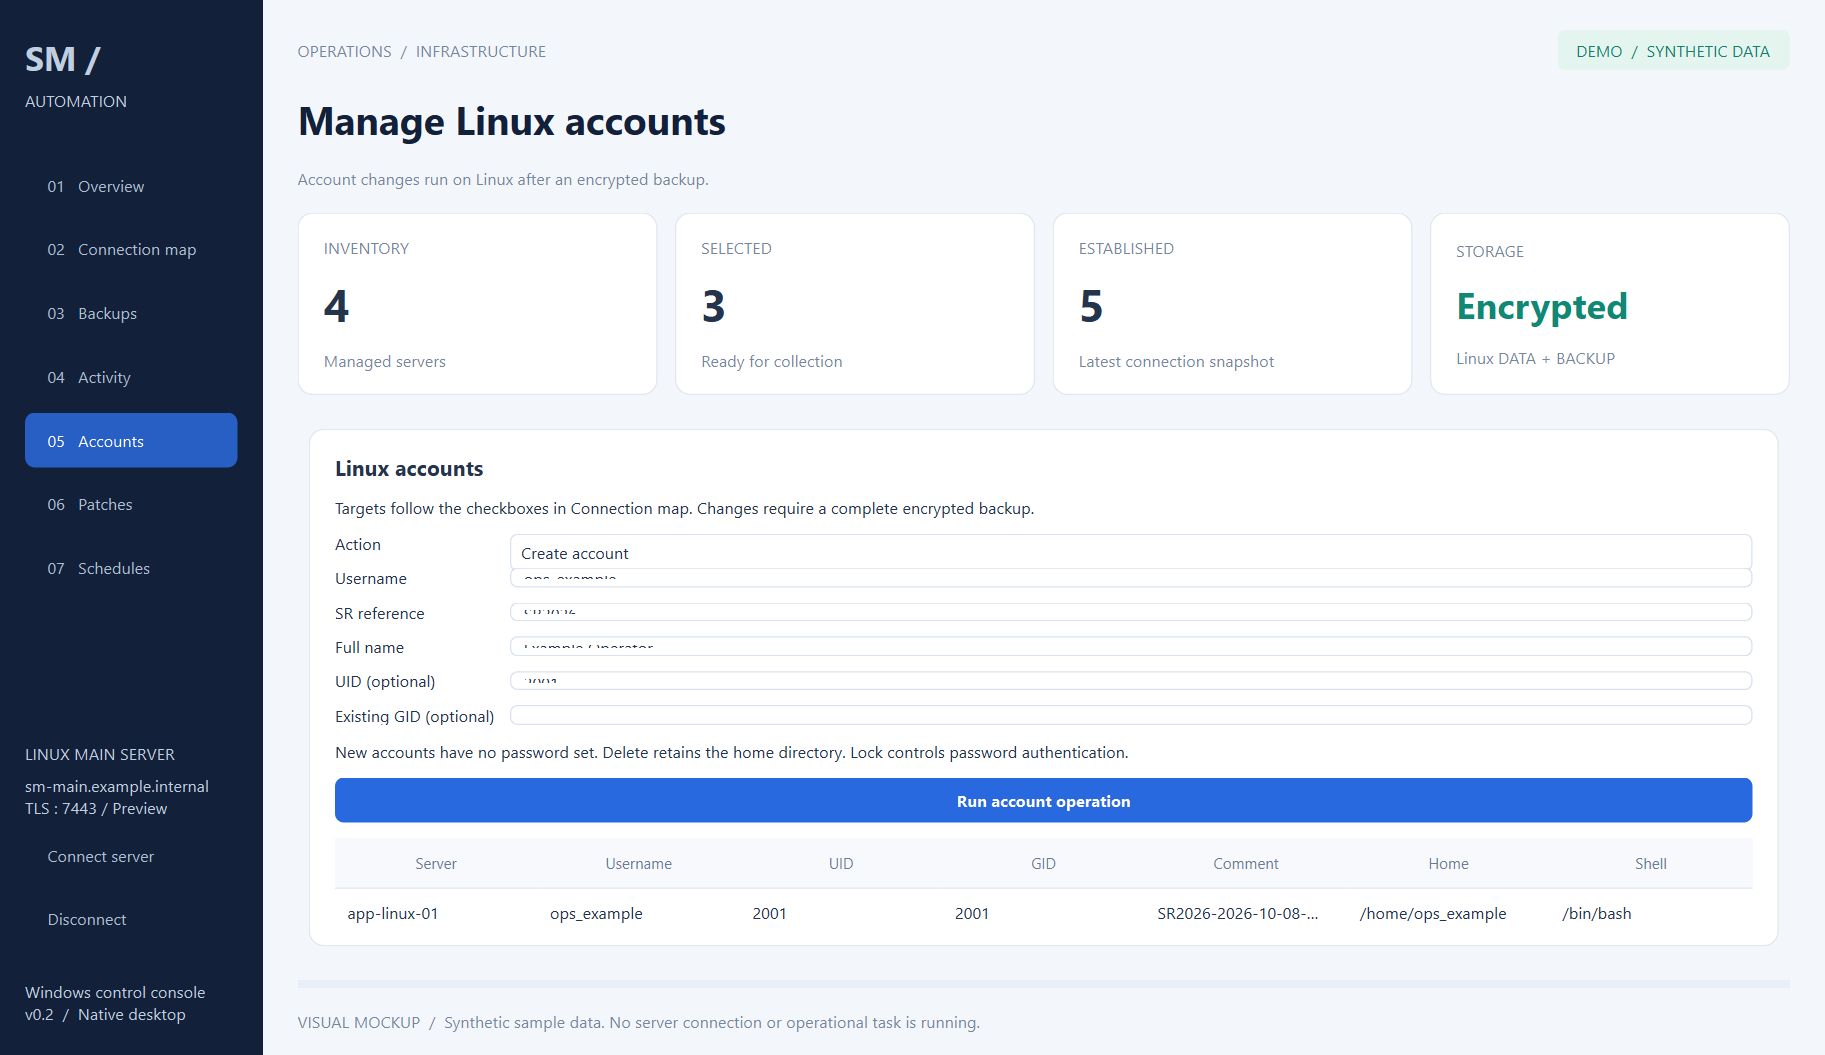
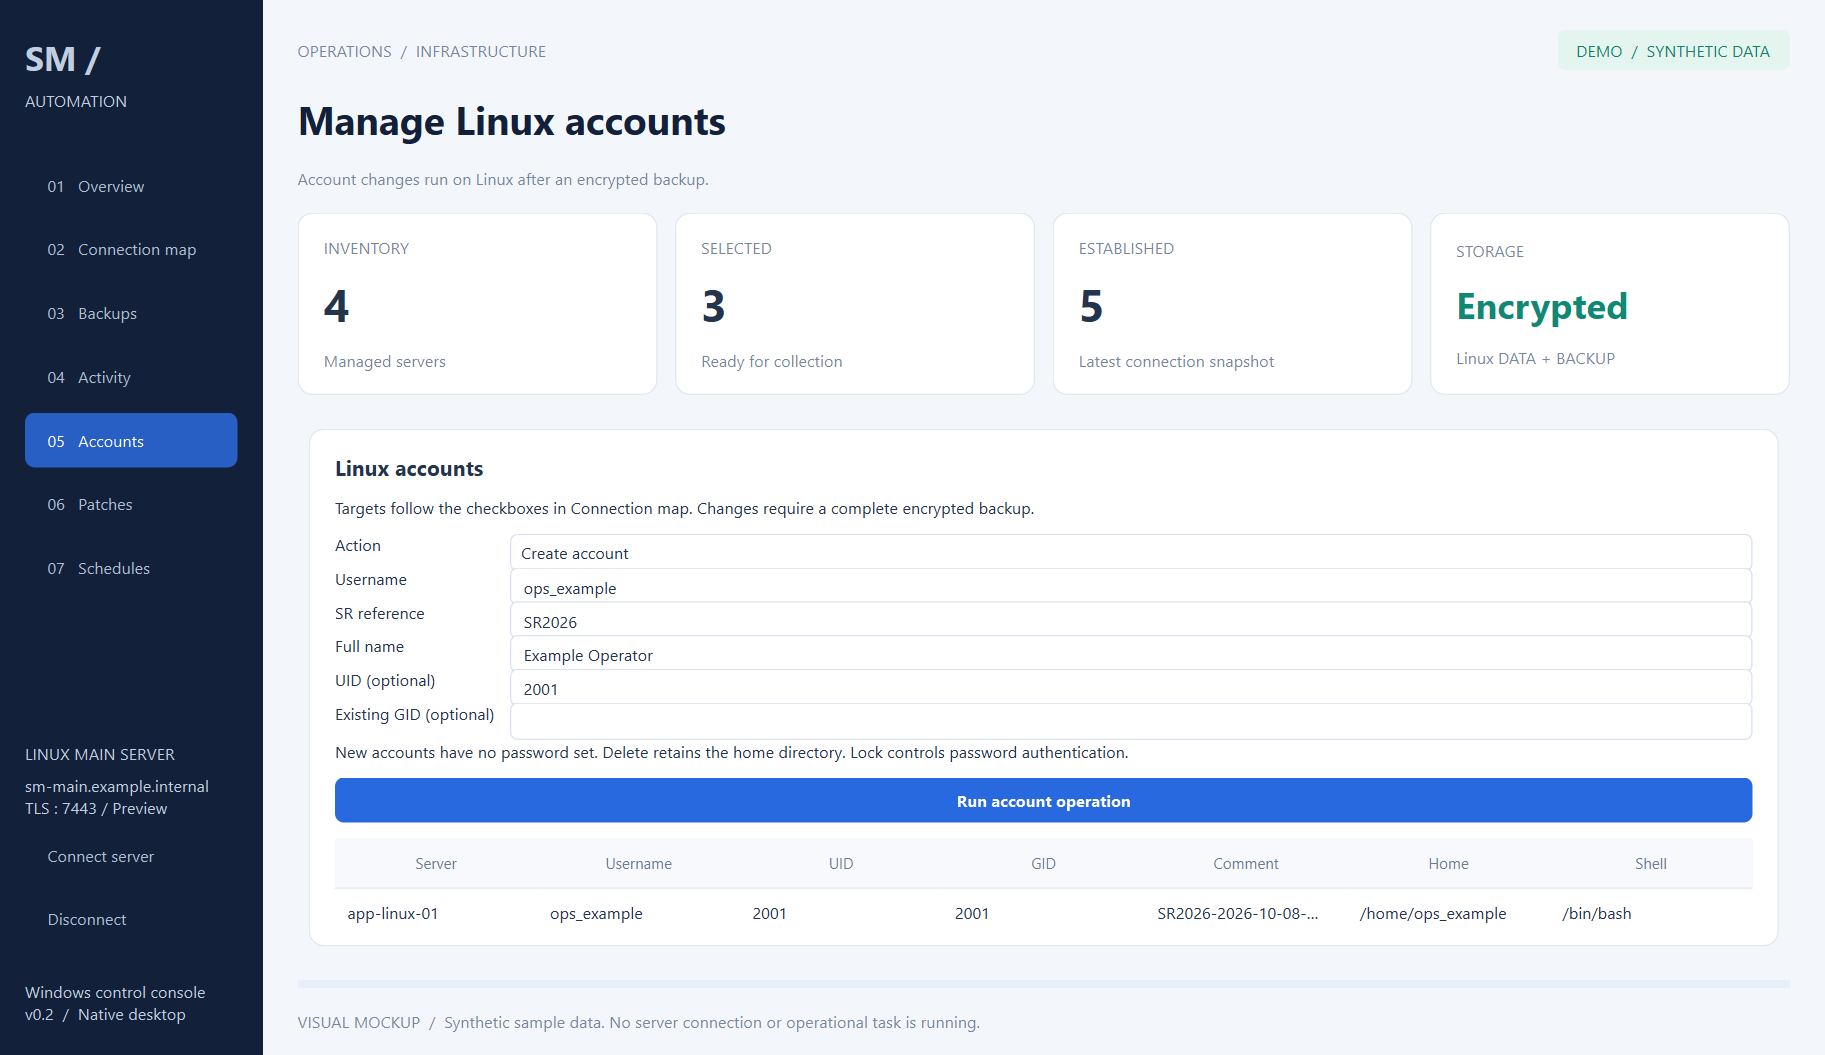
Keep account inputs readable at Windows display scaling

Changed region(s): [[0.2811, 0.546, 0.3748, 0.6673], [0.1874, 0.6066, 0.2811, 0.6976], [0.1874, 0.546, 0.2186, 0.5763]]

diff --git a/src/desktop/main.py b/src/desktop/main.py
@@ -43,7 +43,7 @@ QPushButton[primary="true"]:hover { background: #1c56bb; }
 QLineEdit, QSpinBox, QPlainTextEdit, QComboBox, QDateTimeEdit { border: 1px solid #d9e2ee; border-radius: 6px; background: white; padding: 8px; }
 QComboBox::drop-down { border: none; width: 26px; }
 QComboBox QAbstractItemView { background: white; selection-background-color: #e6efff; selection-color: #203955; }
-QSpinBox, QDateTimeEdit, QComboBox { padding: 3px 8px; min-height: 22px; }
+QSpinBox, QDateTimeEdit, QComboBox, QLineEdit { padding: 3px 8px; min-height: 22px; }
 QTableWidget { background: white; border: none; gridline-color: #edf1f6; selection-background-color: #e6efff; selection-color: #203955; }
 QHeaderView::section { background: #f7f9fc; color: #6a7c93; border: none; border-bottom: 1px solid #e1e8f0; padding: 9px; font-size: 9pt; }
 QTableWidget::item { padding: 7px; border-bottom: 1px solid #eff3f7; }
@@ -284,6 +284,7 @@ class Console(QMainWindow):
         frame, body = card(); body.addWidget(label("Linux accounts", "section"))
         body.addWidget(label("Targets follow the checkboxes in Connection map. Changes require a complete encrypted backup."))
         form = QFormLayout(); self.account_action = QComboBox()
+        form.setVerticalSpacing(10)
         for action, title in [("list", "List accounts"), ("create", "Create account"), ("modify", "Update SR and name"), ("groups", "Add supplementary groups"), ("remove_groups", "Remove supplementary groups"), ("primary_group", "Change primary group (one name)"), ("lock", "Lock password login"), ("unlock", "Unlock password login"), ("delete", "Delete account (retain home)")]:
             self.account_action.addItem(title, action)
         self.account_action.addItem("Set password maximum age", "password_age")
